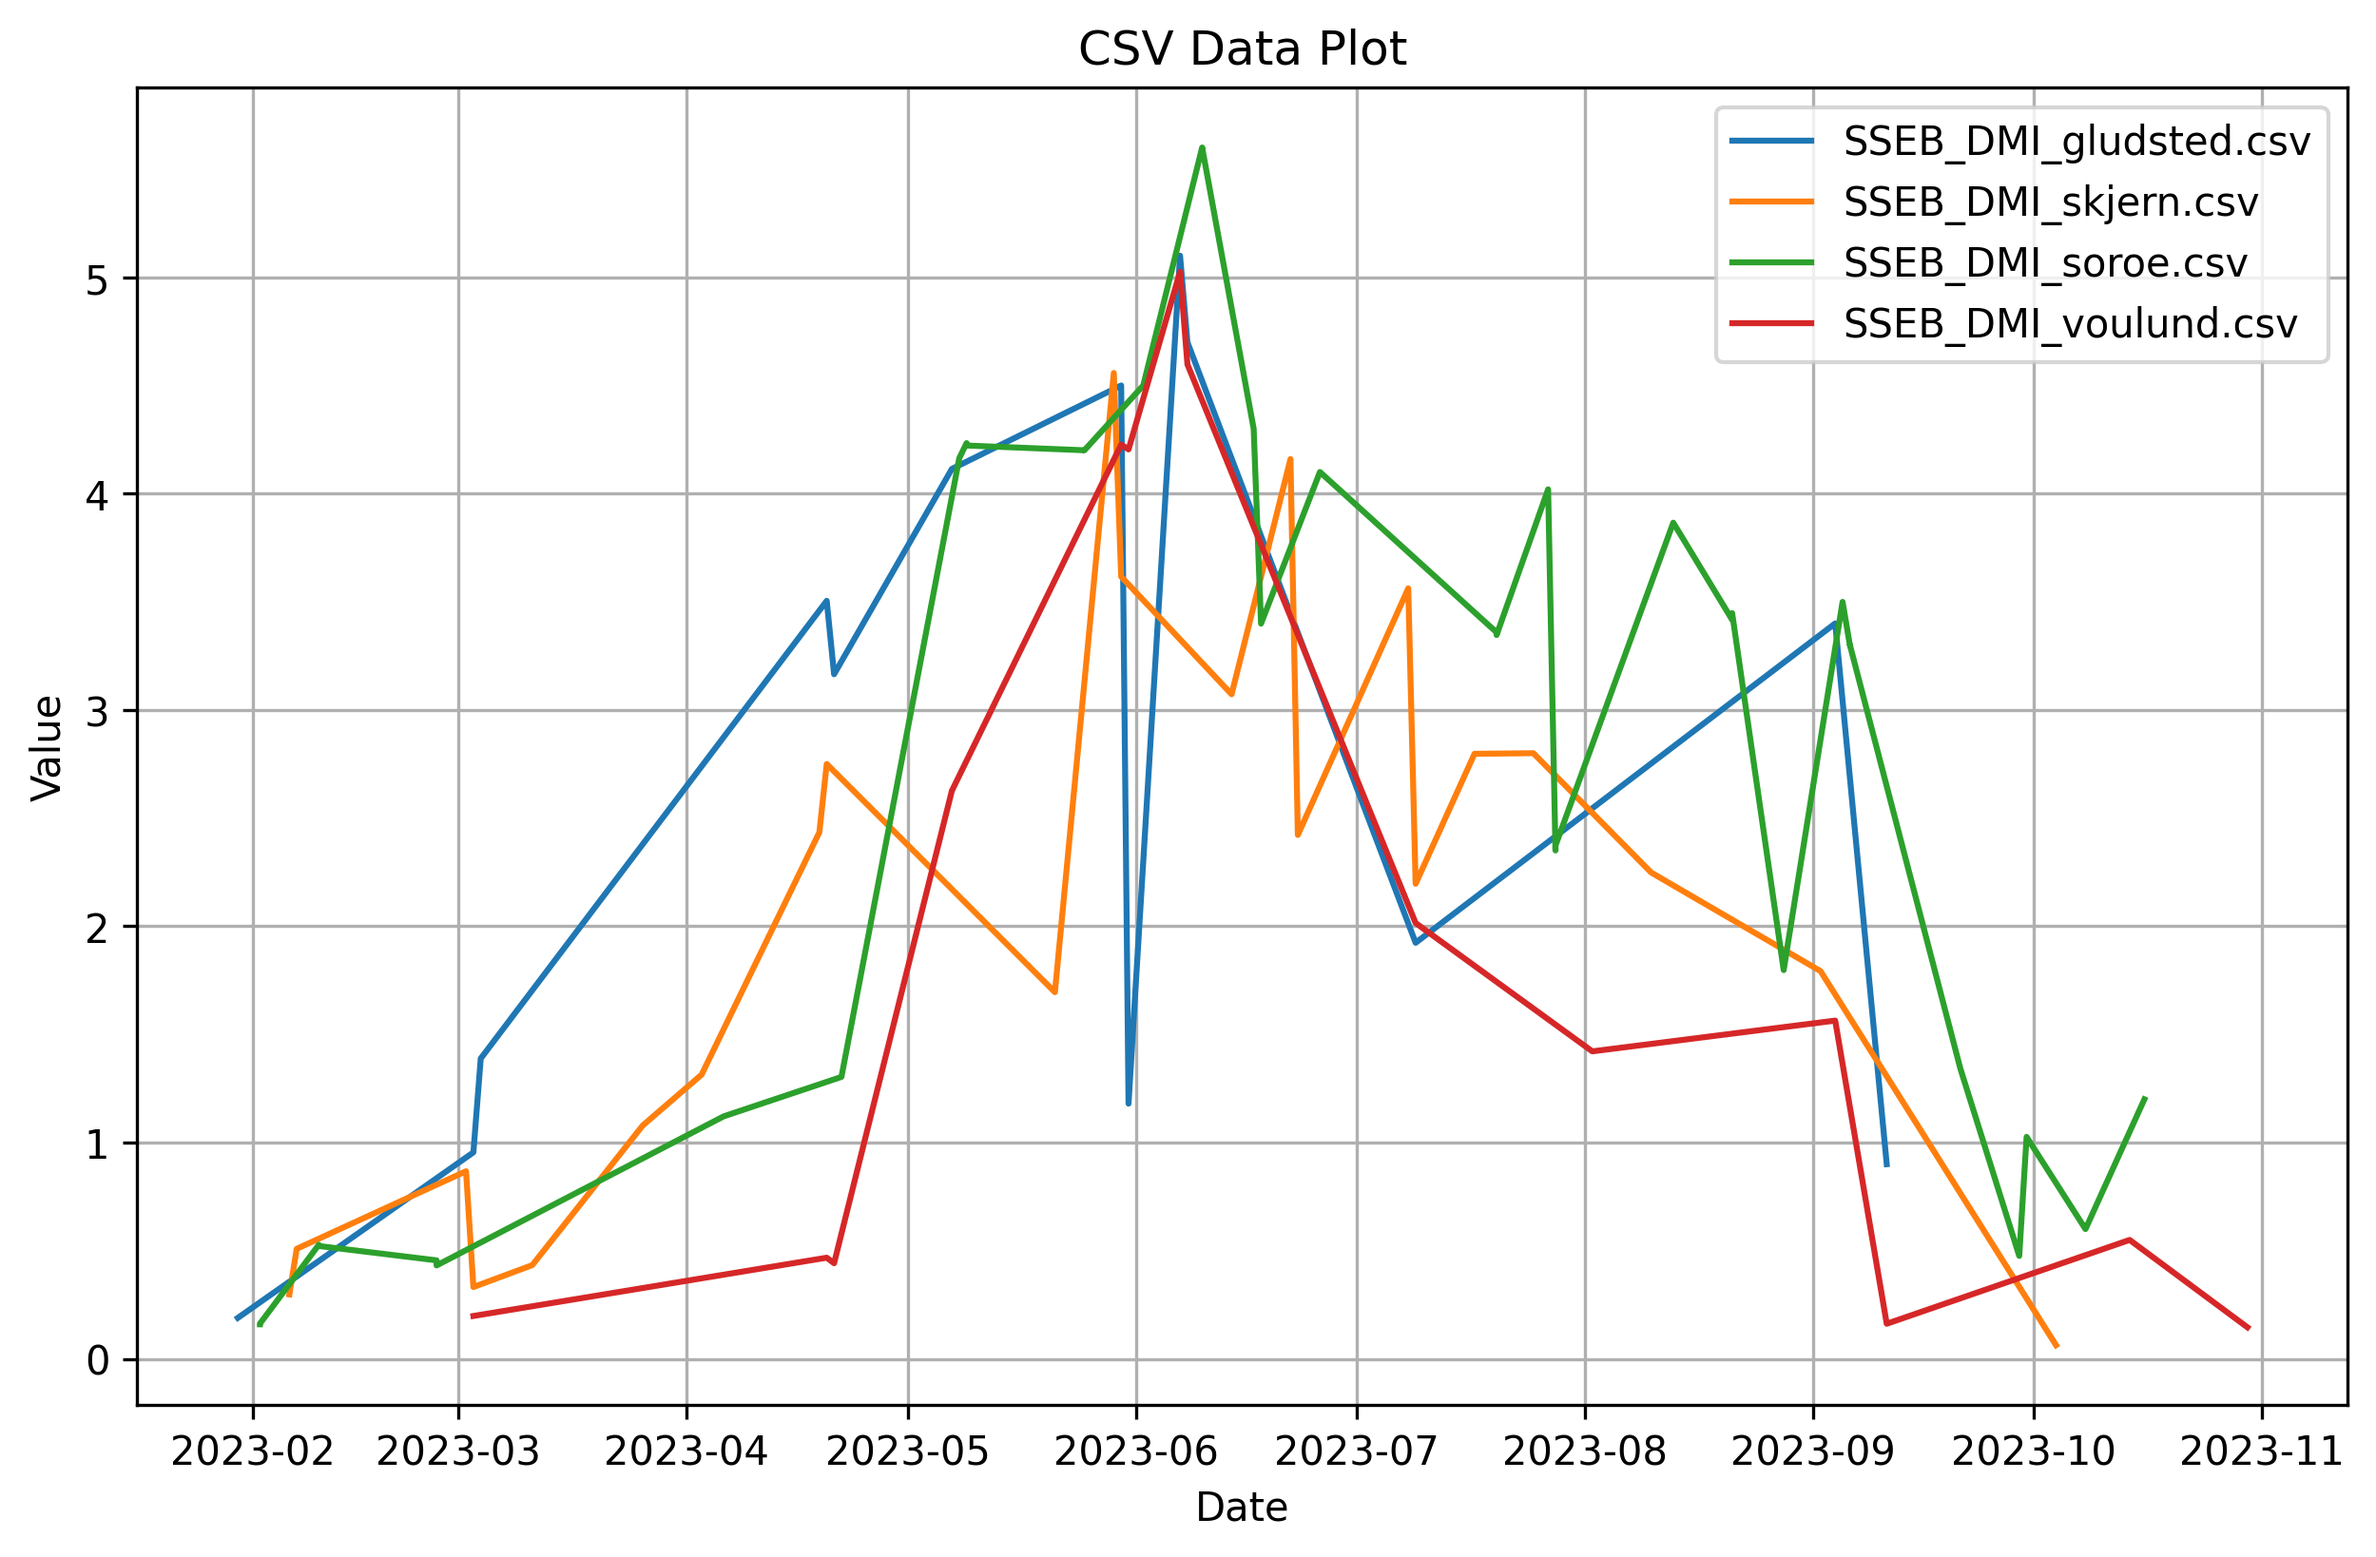
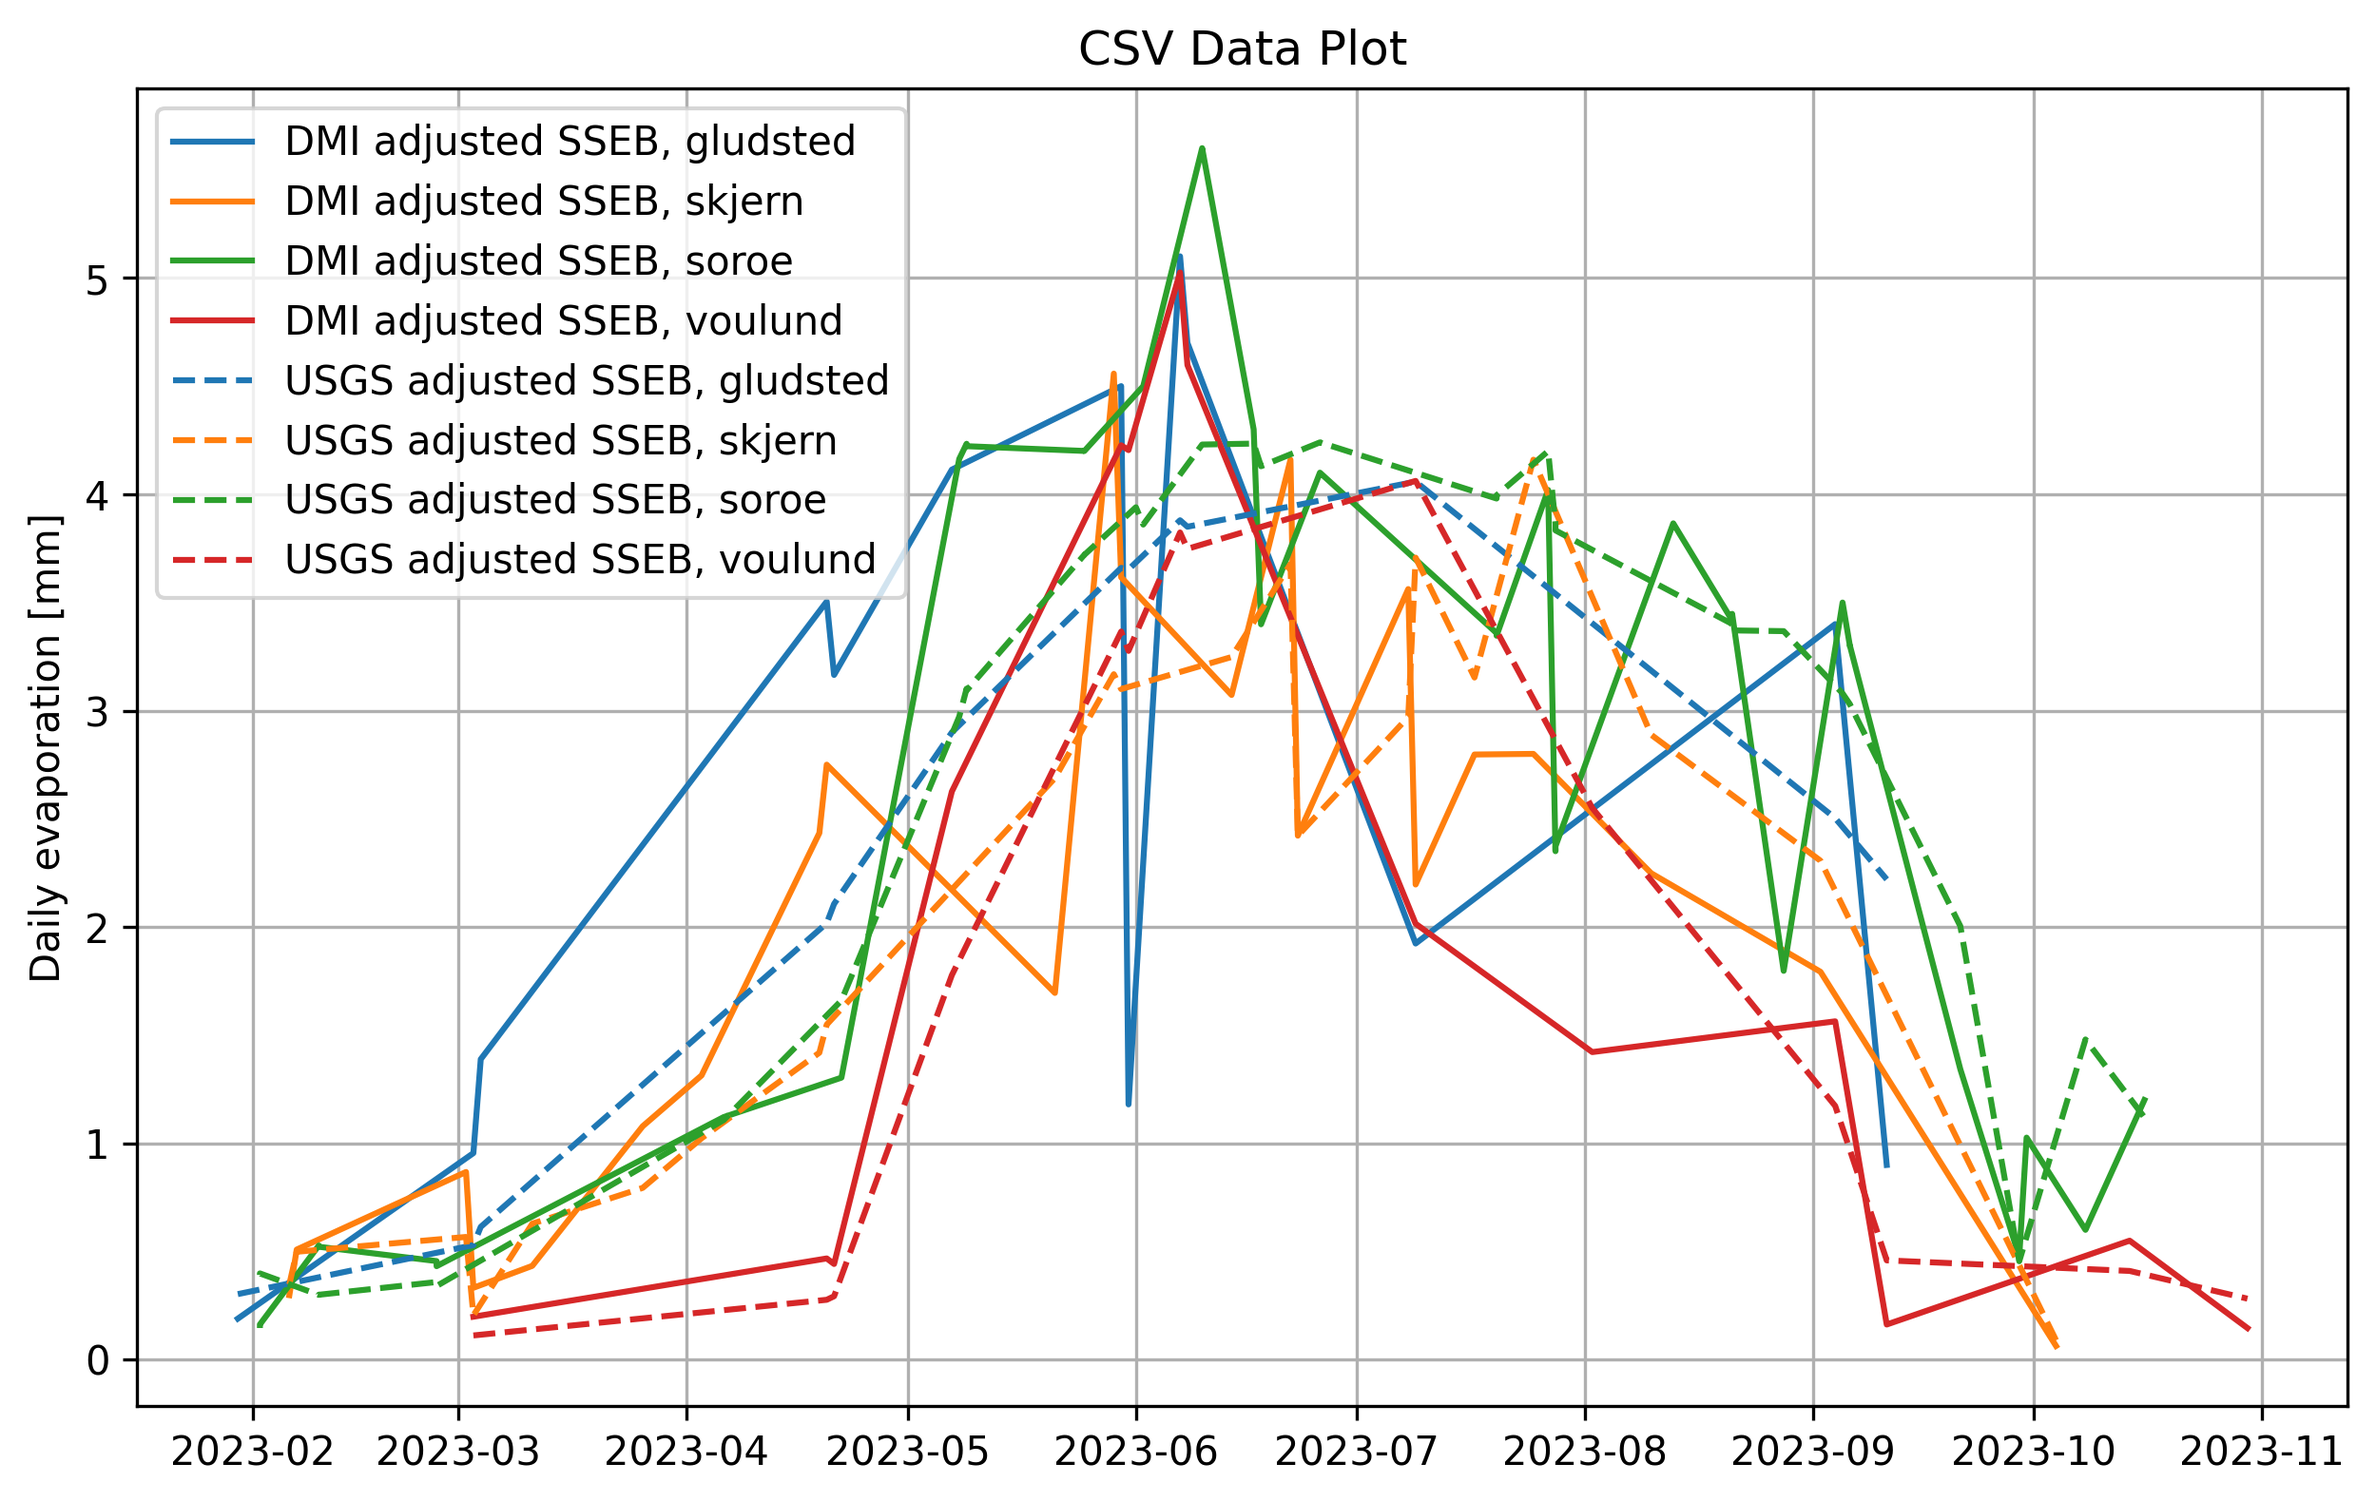
improved plotting function with data lookuptable

diff --git a/tools/plots/plot_csv_files.py b/tools/plots/plot_csv_files.py
@@ -1,40 +1,167 @@
 import pandas as pd
 import matplotlib.pyplot as plt
+from collections import namedtuple
 import glob
 import os
-from datetime import datetime
+import sys
 
-def read_and_plot_csv_files(csv_folder, output_filename):
-    csv_files = glob.glob(os.path.join(csv_folder, "*.csv"))
-    
-    plt.figure(figsize=(10, 6))  # Set up the plot size
+class ETPlotter:
 
-    for csv_file in csv_files:
-        df = pd.read_csv(csv_file, usecols=["filename", "date", "average_value"])
+    def __init__(self, csv_folder, graph_output_dir):
+        self.csv_files = csv_folder
+        self.csv_files = glob.glob(os.path.join(csv_folder, "*.csv"))
+
+        self.graph_output_dir = graph_output_dir
+        os.makedirs(graph_output_dir, exist_ok=True)
+
+        self.data_table = self.build_data_table()
+
+        self.location_style = {} 
+        self.color_list = plt.rcParams['axes.prop_cycle'].by_key()['color']
+        self.style_list = ['-', '--', '-.', ':']
+
+
+    def build_data_table(self):
+        """
+        Builds a lookup table using data from CSV files.
+
+        This method processes a list of CSV files, extracts relevant metadata (such as model, adjustment, and location)
+        from the filenames, assigns a unique color and line style to each location, and stores the data in a namedtuple.
+        It returns a lookup table where each key corresponds to a CSV file and its value is a namedtuple containing the 
+        following fields:
         
+        - `model`: (str) ET model name
+        - `adjustment`: (str) Data source for adjusting ET fraction to  ETA
+        - `location`: (str) Measurement location
+        - `color`: (int) Color index in self.color_list
+        - `style`: (int) Style index in self.line_styles
+        - `label`: (str) Plot label for legends
+
+        Returns:
+        --------
+        - `lookup_table`: A dictionary where keys are CSV file paths and values are namedtuples.
+        """
+
+        ntuple = namedtuple('Dataset', ['model', 'adjustment', 'location', 'color', 'style', 'label'])
+
+        lookup_table = {}
+        location_styles = {}
+
+        for csv_file in self.csv_files:
+
+            model, adjustment, location = os.path.basename(csv_file).split('_')
+            label = self.build_label(csv_file)
+
+            if location in location_styles:
+                color, current_style = location_styles[location]
+                style = current_style + 1
+            else:
+                color = len(location_styles)
+                style = 0
+                location_styles[location] = (color, style)
+
+            lookup_table[csv_file] = ntuple(model, adjustment, location, color, style, label)
+
+        return lookup_table
+    
+
+    def run_all_plots(self):
+        self.plot_all_data(self)
+        # self.
+
+
+    def build_label(self, csv_file):
+
+        csv_file = os.path.splitext(os.path.basename(csv_file))[0]
+        model, adjustment, location = csv_file.split('_')
+
+        return f'{adjustment} adjusted {model}, {location}'
+    
+
+    def get_model(self, csv_file):
+        return os.path.splitext(os.path.basename(csv_file))[0].split('_')[0]
+    
+    
+    def get_adjustment(self, csv_file):
+        return os.path.splitext(os.path.basename(csv_file))[0].split('_')[1]
+    
+    
+    def get_location(self, csv_file):
+        return os.path.splitext(os.path.basename(csv_file))[0].split('_')[2]
+    
+
+    def update_style_dict(self, csv_file):
+        location = self.get_location(csv_file)
+        if not location in self.location_style:
+
+            #position in color list is determined by number location entries
+            color_position = len(self.location_style)    
+            self.location_style[location] = [color_position, 0]
+
+            line_color = self.color_list[color_position]
+            line_style = self.style_list[0]
+            return line_color, line_style
+        
+        self.location_style[location][1] += 1    #get new line style, keep same color
+
+        line_color = self.color_list[self.location_style[location][0]]
+        line_style = self.style_list[self.location_style[location][1]]
+
+        return line_color, line_style
+    
+    
+    def get_csv_data(self, csv_file):
+        """
+        Opens ET data csv files and returns a sorted and filtered dataframe
+        """
+
+        df = pd.read_csv(csv_file, usecols=["filename", "date", "average_value"])
+
         try:
             df['date'] = pd.to_datetime(df['date'], format='%Y%m%d')
         except: 
-            print()
             print(df['date'])
-            continue
+            return
 
-        df = df[df['average_value'] != -9999]
+        df = df[df['average_value'] >= 0]
         df = df.sort_values(by='date')
 
-        plt.plot(df['date'], df['average_value'], label=os.path.basename(csv_file))  # Use the filename as the label
+        return df    
 
-    # plt.xlabel('Date')
-    plt.ylabel('Daily evaporation [mm]')
-    plt.title('CSV Data Plot')
-    plt.legend(loc='best')  # Display a legend with file names
-    plt.grid(True)
 
-    plt.savefig(output_filename, dpi=300, bbox_inches='tight')
-    
-    plt.show()
+    def plot_all_data(self):
+
+        plt.figure(figsize=(10, 6))
+
+        for csv_file, metadata in self.data_table.items():
+            
+            data = self.get_csv_data(csv_file)
+
+            plt.plot(
+                data['date'], 
+                data['average_value'], 
+                label = metadata.label, 
+                color = self.color_list[metadata.color], 
+                linestyle = self.style_list[metadata.style]
+            )
+
+        output_filename = os.path.join(self.graph_output_dir, 'all_data.png')
+
+        plt.ylabel('Daily evaporation [mm]')
+        plt.title('Daily average ET measurements')
+        plt.legend(loc='best')
+        plt.grid(True)
+
+        plt.savefig(output_filename, dpi=300, bbox_inches='tight')
+        plt.show()
+
+
 
 csv_folder = 'test_dir/'
-output_filename = 'test_dir/graph.png'
-read_and_plot_csv_files(csv_folder, output_filename)
+graph_output_dir = 'test_dir/graphs'
+
+et_plotter = ETPlotter(csv_folder, graph_output_dir)
+# et_plotter.run_all_plots()
+
+et_plotter.plot_all_data()
  

diff --git a/tools/plots/csv_extractor.py b/tools/plots/csv_extractor.py
@@ -39,7 +39,6 @@ def sample_geotiffs_in_radius(folder, lat, lon, model, radius=100):
         e.add_note('    sseb_unadj, sseb_adj, metric')
         raise
 
-
     results = []
     for filename in glob.glob(folder + et_extension):
         if not filename.endswith(".tif"):
@@ -106,7 +105,7 @@ def extract_date_from_filename(filename, model):
     """
 
     def extract_sseb(filename):
-        match = re.search(r'\d{8}', filename)
+        match = re.search(r'\d{8}', os.path.basename(filename))
         if match:
             return match.group(0)
         else:
@@ -162,11 +161,11 @@ def build_csv_name(model, location_name):
 # et_file_dir = "J:/javej/drought/drought_et/METRIC/"
 # model = 'metric'
 
-et_file_dir = "J:/javej/drought/drought_et/adjusted_SSEB/"
-model = 'sseb_adj'
+# et_file_dir = "J:/javej/drought/drought_et/adjusted_SSEB/"
+# model = 'sseb_adj'
 
-# et_file_dir = "J:/javej/drought/drought_et/SSEB_files/"
-# model = 'sseb_unadj'
+et_file_dir = "J:/javej/drought/drought_et/SSEB_files/"
+model = 'sseb_unadj'
 
 # output_dir = "J:/javej/drought/drought_et/time_series/"
 output_dir = 'test_dir/'

diff --git a/main.py b/main.py
@@ -21,6 +21,8 @@ import time
 from tools.dmi_data_parser.dmi_tools import DMITools
 from tools.et_adjustment.raster_tools import RasterTools
 
+#TODO Change names of outputs from ETF to ETAajdust or something
+
 class ETAdjuster():
     """
     This script uses ETF rasters and local Danish PET climate data
